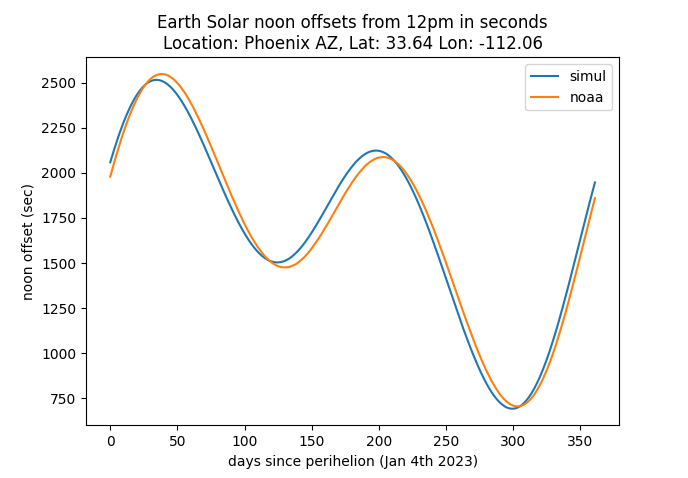
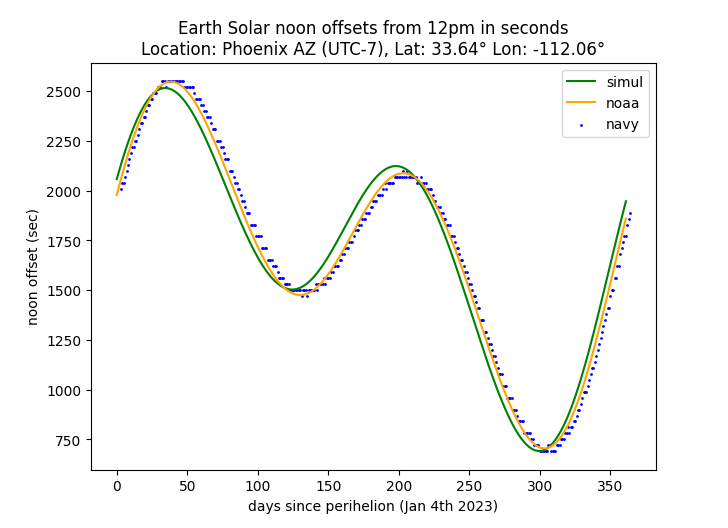
update comparison figure
added navy data

diff --git a/figures/generate_figures.py b/figures/generate_figures.py
@@ -1,27 +1,31 @@
 import os, sys
 sys.path.append(os.path.join(os.path.dirname(os.path.abspath(__file__)), '..'))
-from util.read_data import read_noaa_data
+from util.read_data import read_noaa_data, read_navy_data
 from simul.field_2d import Field2D
 import numpy as np
 import matplotlib.pyplot as plt
 import matplotlib.cm as cm
 
-def get_noaa_noon_offsets():
+def get_data_noon_offsets(data_fname, file_reader):
     cur_path = os.path.dirname(__file__)
-    fname = os.path.join(cur_path, '..', 'data', 'noaa-phoenix-solar-noon.txt')
+    fname = os.path.join(cur_path, '..', 'data', data_fname)
 
-    noon_data_noaa = read_noaa_data(fname)
-    # print(noon_data_noaa)
-    # print(noon_data_noaa.shape)
-
-    data_tpl_noaa = list(map(lambda elm: tuple([int(x) for x in elm.split(':')]), noon_data_noaa))
-    # print(data_tpl_noaa)
+    noon_data = file_reader(fname) # read_noaa_data(fname)
+    data_tpl = list(map(lambda elm: tuple([int(x) for x in elm.split(':')]), noon_data))
 
     datetime_to_offset = lambda tpl: (tpl[0] - 12)*3600 + tpl[1]*60 + tpl[2]
+    noon_offsets = list(map(datetime_to_offset, data_tpl))
+    return noon_offsets
 
-    noaa_noon_offsets = list(map(datetime_to_offset, data_tpl_noaa))
+# def get_navy_noon_offsets():
+#     cur_path = os.path.dirname(__file__)
+#     fname = os.path.join(cur_path, '..', 'data', 'navy-phoenix-sunrise-sunset.txt')
 
-    return noaa_noon_offsets
+#     noon_data_navy = read_navy_data(fname)
+#     data_tpl_navy = list(map(lambda elm: tuple([int(x) for x in elm.split(':')]), noon_data_navy))
+#     datetime_to_offset = lambda tpl: (tpl[0] - 12)*3600 + tpl[1]*60 + tpl[2]
+#     noon_offsets = list(map(datetime_to_offset, data_tpl_navy))
+#     return noon_offsets
 
 def get_simul_noon_offsets(days_offset=0, hours_offset=-7, ecc=0.0167, a_theta=23.4, a_phi=-18.1):
     acc_field = lambda x, y: [-x / (x*x + y*y)**1.5, -y / (x*x + y*y)**1.5]
@@ -65,15 +69,19 @@ def get_simul_noon_offsets(days_offset=0, hours_offset=-7, ecc=0.0167, a_theta=2
 
 if __name__ == "__main__":
 
-    fig_size = (6, 6)   # inches
-    # comparison plot
-    noaa_noon_offsets = get_noaa_noon_offsets()
+    fig_size = (6, 6)   # fig size in inches
+
+    noaa_noon_offsets = get_data_noon_offsets(data_fname='noaa-phoenix-solar-noon.txt', file_reader=read_noaa_data)
+    navy_noon_offsets = get_data_noon_offsets(data_fname='navy-phoenix-sunrise-sunset.txt', file_reader=read_navy_data)
+    # print(navy_noon_offsets)
+
     simul_noon_offsets = get_simul_noon_offsets(days_offset=0, hours_offset=-7.0, ecc=0.0167, a_theta=23.4, a_phi=-18.1)  
 
     fig, ax = plt.subplots()
-    simul_curve = ax.plot(simul_noon_offsets[0:362], label='simul')
-    noaa_curve = ax.plot(noaa_noon_offsets[3:365], label='noaa')
-    ax.set_title("Earth Solar noon offsets from 12pm in seconds\nLocation: Phoenix AZ, Lat: 33.64° Lon: -112.06°")
+    simul_curve = ax.plot(simul_noon_offsets[0:362], 'green', label='simul')
+    noaa_curve = ax.plot(noaa_noon_offsets[3:365], 'orange', label='noaa')
+    navy_curve = ax.scatter(np.arange(3, 365), navy_noon_offsets[3:365], s=1, c='blue', label='navy')
+    ax.set_title("Earth Solar noon offsets from 12pm in seconds\nLocation: Phoenix AZ (UTC-7), Lat: 33.64° Lon: -112.06°")
     ax.set_xlabel("days since perihelion (Jan 4th 2023)")
     ax.set_ylabel("noon offset (sec)")
     ax.legend()
